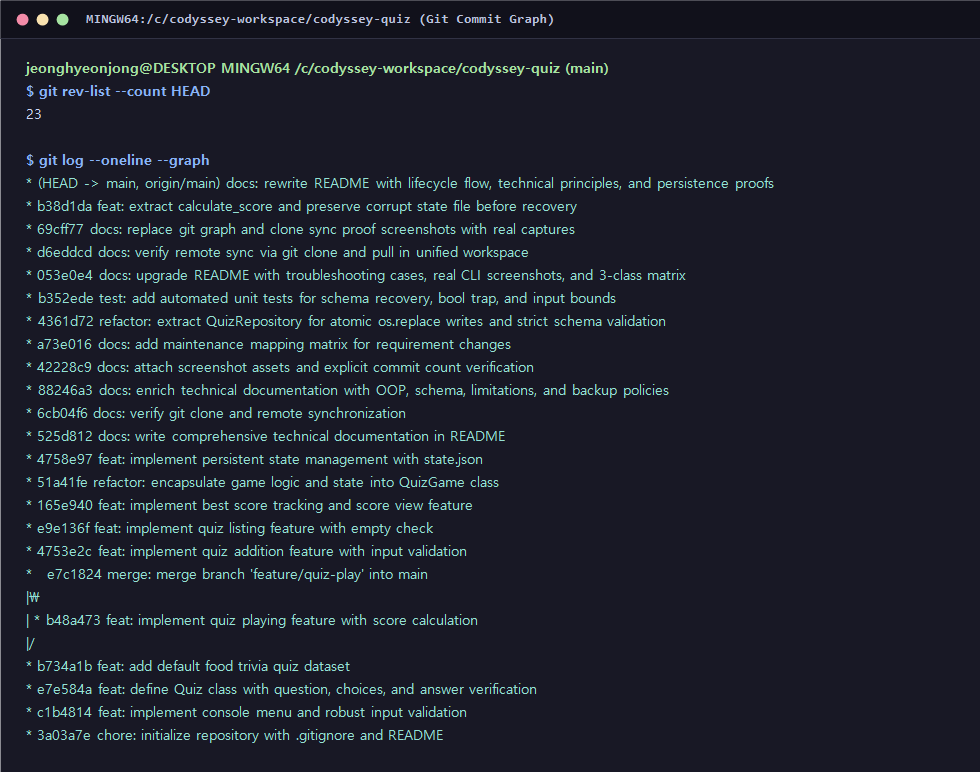
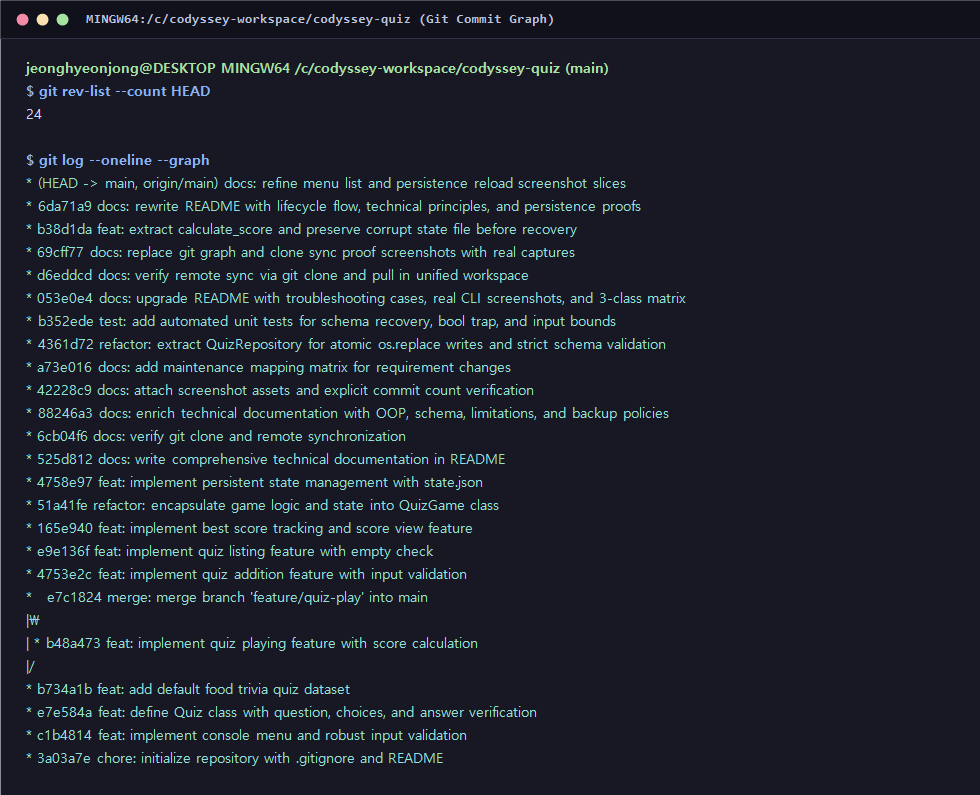
docs: refine menu list and persistence reload screenshot slices

Changed region(s): [[0.0306, 0.1865, 0.7959, 0.9637], [0.0306, 0.0311, 0.6122, 0.1554], [0.0918, 0.0, 0.551, 0.0311]]

diff --git a/README.md b/README.md
@@ -339,10 +339,11 @@
 ![Git Clone and Pull Sync Screenshot](docs/git_clone_pull.png)
 
     $ git rev-list --count HEAD
-    23
+    24
 
     $ git log --oneline --graph
-    * (HEAD -> main, origin/main) docs: rewrite README with lifecycle flow, technical principles, and persistence proofs
+    * (HEAD -> main, origin/main) docs: refine menu list and persistence reload screenshot slices
+    * 6da71a9 docs: rewrite README with lifecycle flow, technical principles, and persistence proofs
     * b38d1da feat: extract calculate_score and preserve corrupt state file before recovery
     * 69cff77 docs: replace git graph and clone sync proof screenshots with real captures
     * d6eddcd docs: verify remote sync via git clone and pull in unified workspace
